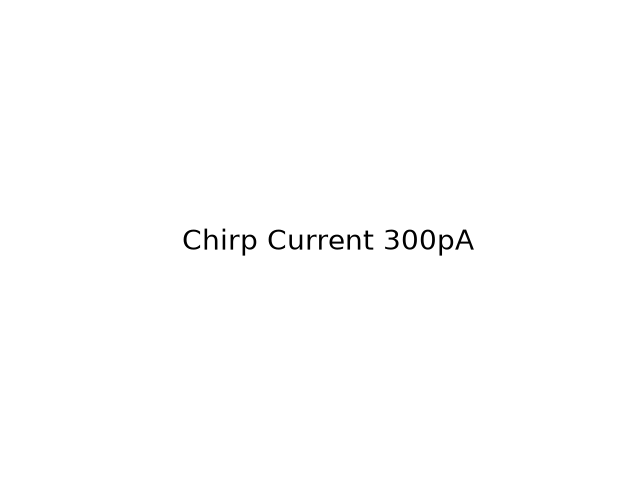
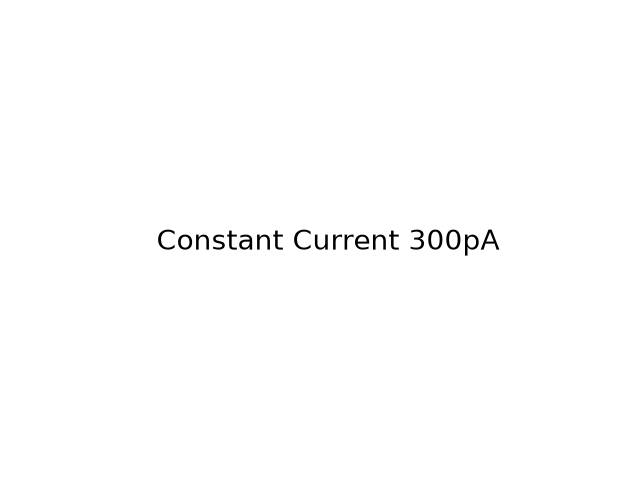
Longer steady state

Changed region(s): [[0.25, 0.4688, 0.7812, 0.5312]]

diff --git a/ExperimentManager.py b/ExperimentManager.py
@@ -67,9 +67,9 @@ class ExperimentManager:
                 self.plotingSuite("Step Current " + str(self.peakCurrent * 100) + "pA for 500mS")
             case "Constant":
                 print("Running Constant Current Experiment")
+                # current = WhiteNoise(0, 30000)
+                # self.neuron.runModel(self.I_hold, current, True, False, False, True, False)
                 current = WhiteNoise(0, 30000)
-                self.neuron.runModel(self.I_hold, current, True, False, False, True, False)
-                current = WhiteNoise(self.peakCurrent, 40000)
                 self.neuron.runModel(self.I_hold, current, True, False, True, True, False)
                 self.plotingSuite("Constant Current " + str(self.peakCurrent * 100) + "pA")
                 # self.neuron.plotChannelTimeSeriesVoltage()

diff --git a/HodgkinHuxley.py b/HodgkinHuxley.py
@@ -138,7 +138,8 @@ class HogdkinHuxley:
     def setValues_alt(self):
         #Units
         # Membrane voltage
-        self.V0 = -80#-75.5
+        self.V0 = -72.29997178338799#-80#-75.5
+
         # Initialize conductance
         self.g_NaT = 65
         #Labeled gS in paper, assuming this is correct
@@ -359,6 +360,7 @@ class HogdkinHuxley:
             self.n_H0 = z[9, -1]
             self.V0 = z[10, -1]
             self.Ca_c0 = z[11, -1]
+            print(self.V0)
         return z
 
     def plotVoltageTimeSeries(self, saveLocation, saveNumber, save = True, show = True, additionalText=""):
